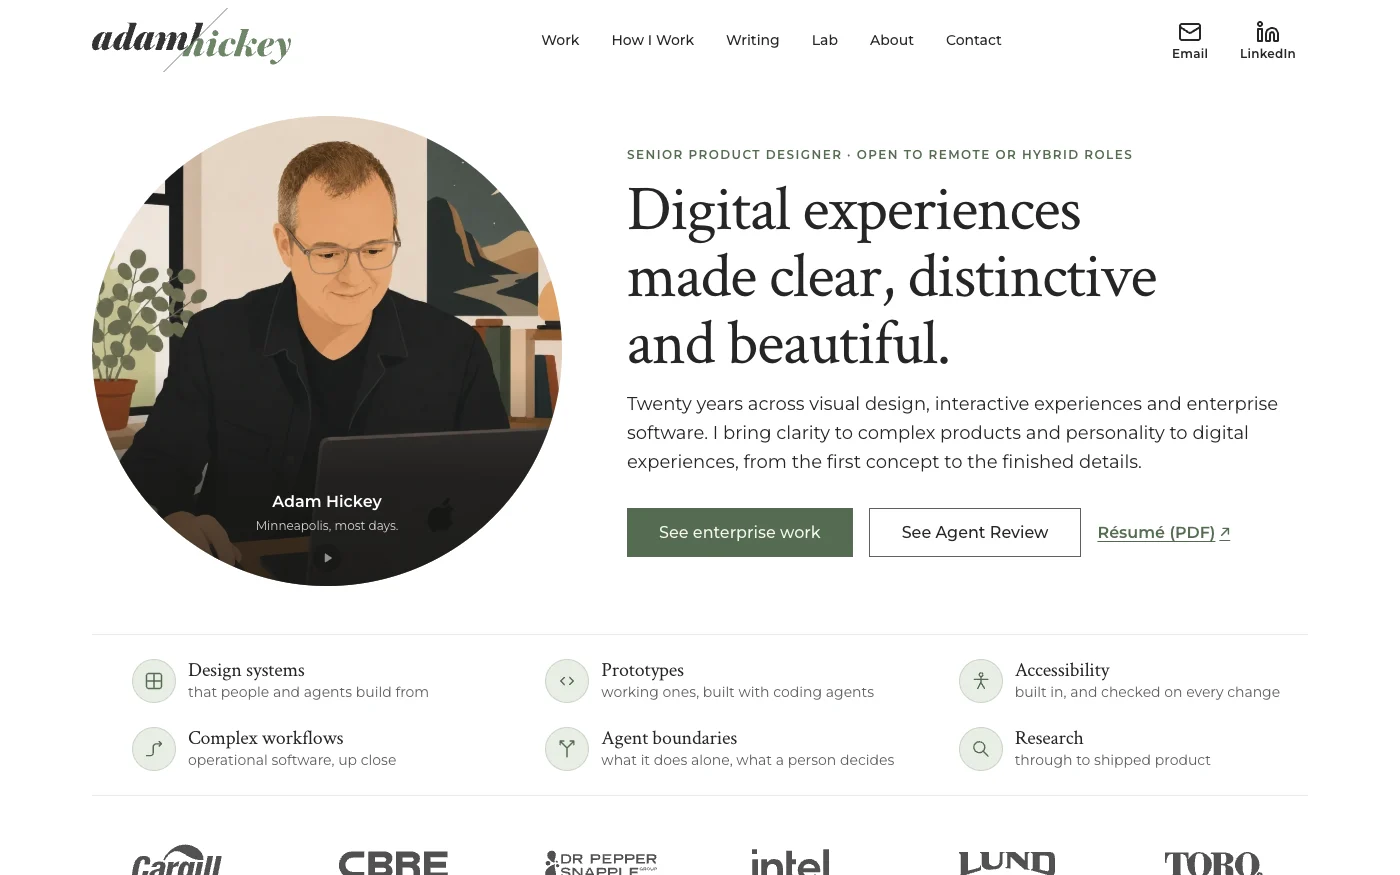
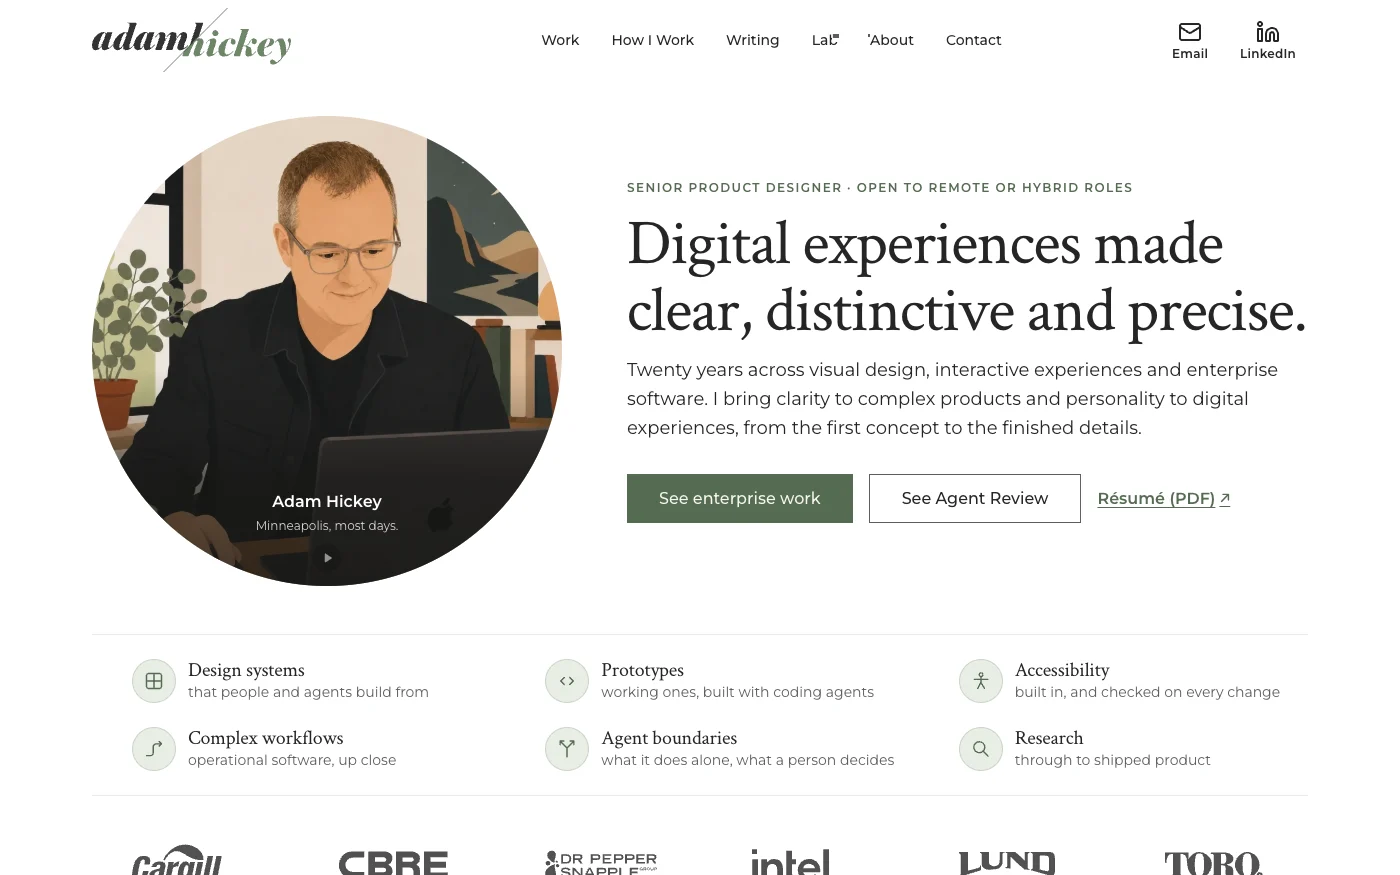
The headline says precise where it said beautiful: "Digital experiences made clear, distinctive and precise." in the h1, the og:description, the share card, the homepage capture and the this-site write-up's alt, and llms.txt's summary; the capture and both cards re-rendered, busters bumped

Changed region(s): [[0.43, 0.1543, 0.9214, 0.648]]

diff --git a/index.html b/index.html
@@ -21,7 +21,7 @@
 
   <meta name="color-scheme" content="light" />
   <meta property="og:title" content="Adam Hickey | Senior Product Designer for Complex Software" />
-  <meta property="og:description" content="Digital experiences made clear, distinctive and beautiful. Twenty years across visual design, interactive experiences and enterprise software: clarity for complex products and personality for digital experiences, from the first concept to the finished details." />
+  <meta property="og:description" content="Digital experiences made clear, distinctive and precise. Twenty years across visual design, interactive experiences and enterprise software: clarity for complex products and personality for digital experiences, from the first concept to the finished details." />
   <meta property="og:type" content="website" />
   <!-- Absolute because scrapers do not resolve a relative og:image, and the
        canonical origin is the production one whichever host is serving this:
@@ -30,7 +30,7 @@
        "How a change reaches the live site". -->
   <link rel="canonical" href="https://adamhickey.com/" />
   <meta property="og:url" content="https://adamhickey.com/" />
-  <meta property="og:image" content="https://adamhickey.com/img/og/index.jpg?v=5" />
+  <meta property="og:image" content="https://adamhickey.com/img/og/index.jpg?v=6" />
   <meta property="og:image:width" content="1200" />
   <meta property="og:image:height" content="630" />
   <meta name="twitter:card" content="summary_large_image" />
@@ -51,7 +51,7 @@
           "jobTitle": "Senior Product Designer",
           "description": "Senior product designer for complex enterprise software, design systems and agentic workflows, who builds what he designs, in Minneapolis.",
           "url": "https://adamhickey.com/",
-          "image": "https://adamhickey.com/img/og/index.jpg?v=5",
+          "image": "https://adamhickey.com/img/og/index.jpg?v=6",
           "email": "mailto:adam@adamhickey.com",
           "address": {
             "@type": "PostalAddress",
@@ -85,7 +85,7 @@
           "name": "Adam Hickey — Product Design",
           "description": "Adam Hickey's independent product design practice in Minneapolis, for complex enterprise software: design systems, modernizing legacy products, and AI product prototypes. Twenty years inside enterprise platforms, design systems, and products that outgrew their original shape.",
           "url": "https://adamhickey.com/",
-          "image": "https://adamhickey.com/img/og/index.jpg?v=5",
+          "image": "https://adamhickey.com/img/og/index.jpg?v=6",
           "founder": {
             "@id": "https://adamhickey.com/#adam"
           },
@@ -393,14 +393,14 @@
                clear, distinctive, and beautifully designed." over a 45-word
                dek) and asked for it here, shorter. The title keeps its three
                words in seven: "Digital experiences made clear, distinctive
-               and beautiful." The dek is the twenty years across the three
+               and precise." The dek is the twenty years across the three
                kinds of work, then what he brings to each, in 30 words. The
                agents left the dek: Agent Review keeps the second button and
                the lab card, and the eyebrow still says the title a recruiter
                searches. The share card, og:description and llms.txt's summary
                moved with it; the <title> and description are search language
                and stayed. -->
-<h1 class="hero-title">Digital experiences made clear, distinctive and beautiful.</h1>
+<h1 class="hero-title">Digital experiences made clear, distinctive and precise.</h1>
           <!-- ONE PARAGRAPH, since 2026-10-09. The thesis came out: "AI is
                changing the shape of product design" is the one sentence on
                the page every reader already believes, and "I'm exploring

diff --git a/case-study/this-site.html b/case-study/this-site.html
@@ -19,7 +19,7 @@
   <meta property="og:url" content="https://adamhickey.com/case-study/this-site.html" />
   <meta property="og:title" content="How I built this site | Adam Hickey" />
   <meta property="og:description" content="How adamhickey.com is built: thirty-eight pages of plain HTML with no framework and no build step, three token files under four normative specs, and eleven checks that measure the rendered page before anything ships." />
-  <meta property="og:image" content="https://adamhickey.com/img/og/this-site.jpg?v=5" />
+  <meta property="og:image" content="https://adamhickey.com/img/og/this-site.jpg?v=6" />
   <meta property="og:image:width" content="1200" />
   <meta property="og:image:height" content="630" />
   <meta name="twitter:card" content="summary_large_image" />
@@ -40,7 +40,7 @@
           "description": "A build write-up for adamhickey.com: thirty-eight pages of plain HTML with no framework and no build step, three token files under four normative specs, and eleven checks that measure the rendered page before anything ships.",
           "url": "https://adamhickey.com/case-study/this-site.html",
           "mainEntityOfPage": "https://adamhickey.com/case-study/this-site.html",
-          "image": "https://adamhickey.com/img/og/this-site.jpg?v=5",
+          "image": "https://adamhickey.com/img/og/this-site.jpg?v=6",
           "datePublished": "2026-09-17",
           "dateModified": "2026-10-26",
           "author": {
@@ -238,8 +238,8 @@
              sits one click away would be the one dishonest picture here. -->
         <figure class="build-shot">
           <div class="build-laptop"><div class="build-laptop-lid">
-              <img src="../img/site/this-site.webp?v=6" width="1400" height="875" fetchpriority="high" decoding="async"
-                   alt="The homepage of this site at laptop width: the wordmark and six section links across the top, the portrait in a circle on the left, and on the right the eyebrow Senior Product Designer &middot; Open to remote or hybrid roles over the title &ldquo;Digital experiences made clear, distinctive and beautiful.&rdquo;, a three-line dek beginning &ldquo;Twenty years across visual design, interactive experiences and enterprise software.&rdquo;, a green See enterprise work button, an outlined See Agent Review button and a R&eacute;sum&eacute; link. Under the pair, six facts in two rows of three, each with a small line icon in a pale disc, among them Agent boundaries, and a row of six client wordmarks along the bottom." />
+              <img src="../img/site/this-site.webp?v=7" width="1400" height="875" fetchpriority="high" decoding="async"
+                   alt="The homepage of this site at laptop width: the wordmark and six section links across the top, the portrait in a circle on the left, and on the right the eyebrow Senior Product Designer &middot; Open to remote or hybrid roles over the title &ldquo;Digital experiences made clear, distinctive and precise.&rdquo;, a three-line dek beginning &ldquo;Twenty years across visual design, interactive experiences and enterprise software.&rdquo;, a green See enterprise work button, an outlined See Agent Review button and a R&eacute;sum&eacute; link. Under the pair, six facts in two rows of three, each with a small line icon in a pale disc, among them Agent boundaries, and a row of six client wordmarks along the bottom." />
             </div></div>
         </figure>
 
